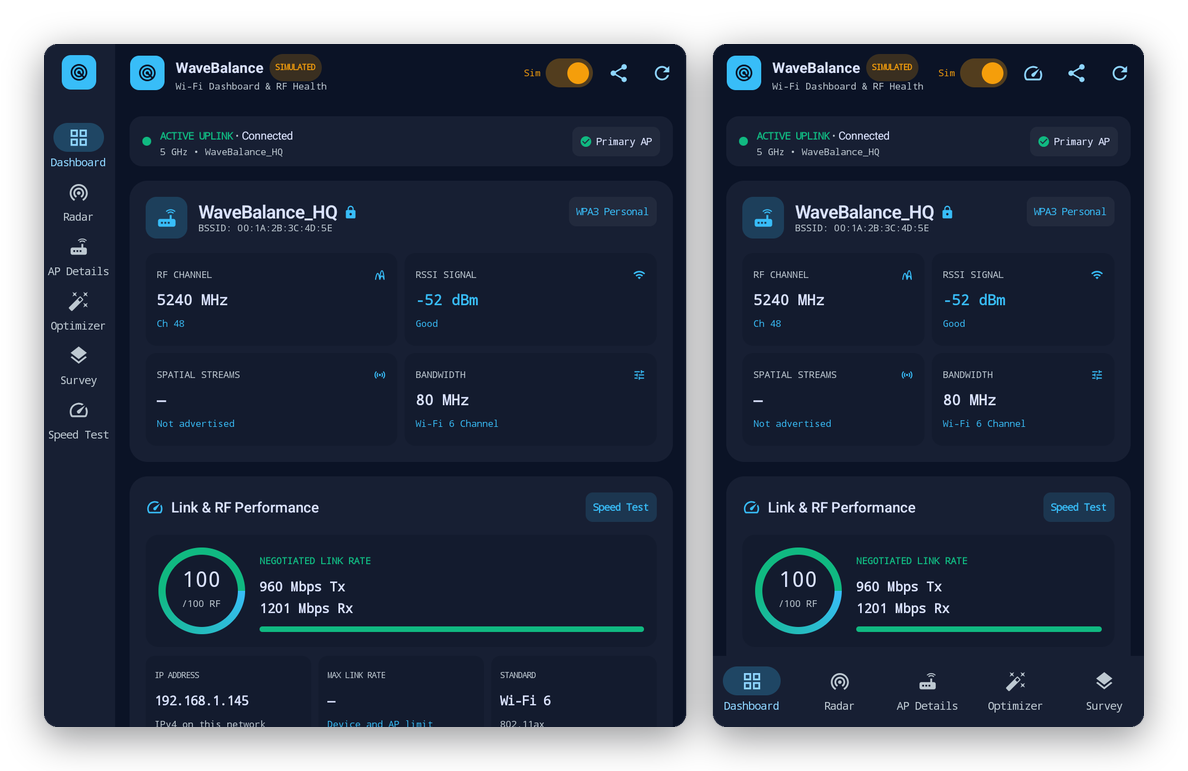
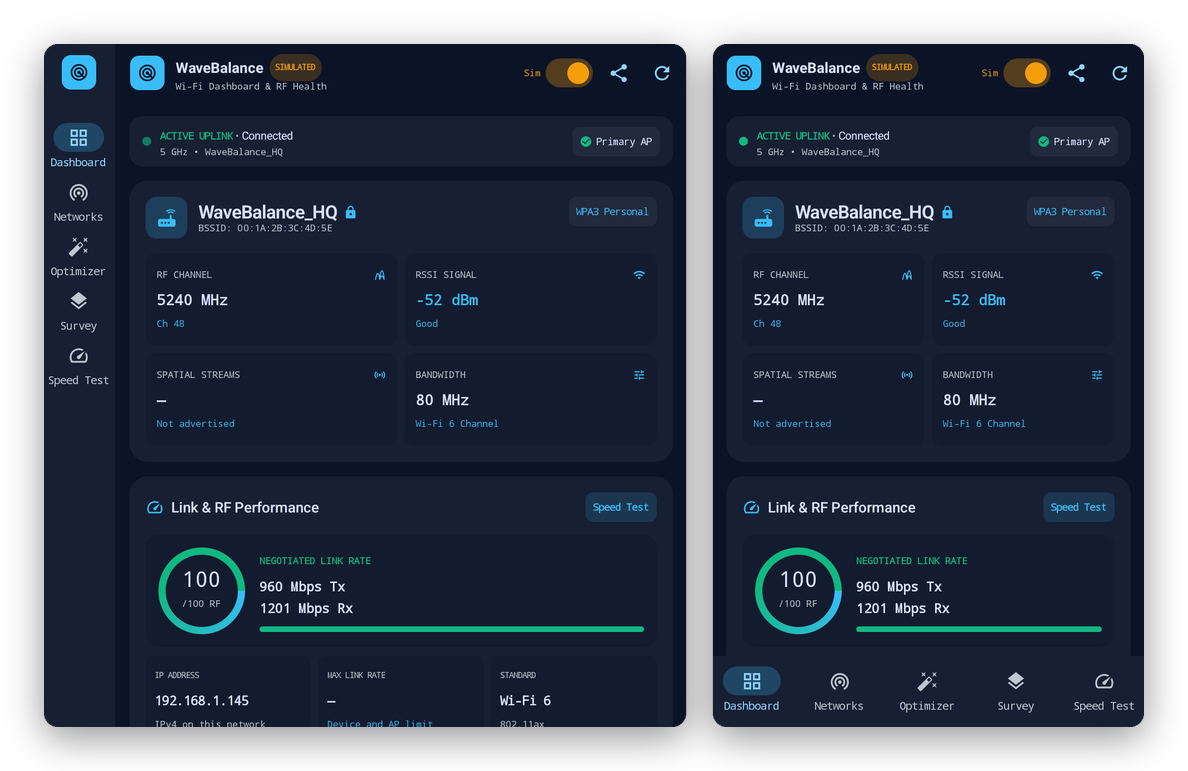
docs: Networks in the README, new screenshots and changelog
The README lists Networks in place of Radar and AP Details, with the new
shortcut numbers, one wide Networks screenshot and the Networks to-do item
removed. Every screenshot is retaken (simulated data) because they all show
the navigation panel. tools/readme_images.py captures networks instead of
radar and details.

diff --git a/tools/readme_images.py b/tools/readme_images.py
@@ -8,7 +8,7 @@ SHOTS_DIR holds full-screen adb captures (`adb exec-out screencap -p`) of a Goog
 (2880x1800 px, 260 dpi) with the WaveBalance window at WINDOW, showing **simulated data**
 (the S key), never a real network:
 
-  dashboard.png radar.png details.png optimizer.png survey.png
+  dashboard.png networks.png optimizer.png survey.png
                           the desktop layout, one capture per screen
   medium.png              the Dashboard with the window resized to MEDIUM (side rail)
   compact.png             the Dashboard with the window resized to COMPACT (bottom bar)
@@ -31,7 +31,7 @@ SHOTS = pathlib.Path(sys.argv[1] if len(sys.argv) > 1 else pathlib.Path.home() /
 WINDOW = (403, 191, 2476, 1487)  # left, top, right, bottom of the desktop-size window
 MEDIUM_RIGHT, COMPACT_RIGHT = 1563, 1183  # right edge when resized (same left and top)
 CAPTION = 65  # px of window caption above the app
-SCREENS = ["dashboard", "radar", "details", "optimizer", "survey"]
+SCREENS = ["dashboard", "networks", "optimizer", "survey"]
 ANDROID = "{http://schemas.android.com/apk/res/android}"
 
 
@@ -102,7 +102,9 @@ def vector_to_svg(*drawables):
 def main():
     OUT.mkdir(parents=True, exist_ok=True)
     save(framed(app_only("dashboard"), 1600), "hero.png")
-    for name in SCREENS[1:]:
+    # Networks spans both columns of the README's table
+    save(framed(app_only("networks"), 1600), "networks.png")
+    for name in SCREENS[2:]:
         save(framed(app_only(name), 1200), f"{name}.png")
 
     # The same Dashboard at two smaller window sizes, side by side, at the same scale.

diff --git a/README.md b/README.md
@@ -44,9 +44,9 @@ read from Android and the access points, or measured; when something isn't known
 
 - **Dashboard:** your connection at a glance: channel, signal, security, spatial streams,
   bandwidth, link rate, and how crowded the airspace is.
-- **Radar:** every network drawn on its channels, band by band, so overlaps are obvious.
-- **AP Details:** each access point's vendor, security, Wi-Fi generation, roaming support
-  (802.11k/v/r) and a live signal graph for the one you're on.
+- **Networks:** every network drawn on its channels, band by band, so overlaps are obvious,
+  in a sortable table beside the selected access point's details: vendor, security, Wi-Fi
+  generation, roaming support (802.11k/v/r) and a live signal graph for the one you're on.
 - **Optimizer:** scores every channel and recommends the clearest one for your router.
 - **Survey:** pin signal readings on a floor plan, room by room, and see the coverage as a
   heatmap with dead zones.
@@ -59,8 +59,8 @@ read from Android and the access points, or measured; when something isn't known
 WaveBalance is designed for a laptop: a resizable window, a keyboard and a mouse.
 
 - **A desktop layout.** A navigation panel down the left shows every screen with its shortcut
-  key, and the Dashboard, the Optimizer and the Speed Test use two columns, so far more fits on
-  screen at once.
+  key. Networks puts the list and the selected network's details side by side, and the
+  Dashboard, the Optimizer and the Speed Test use two columns, so far more fits on screen at once.
 - **Any window size.** Resize the window and the layout follows: a side rail when it's medium,
   a bottom bar at phone width, and the full panel when there's room.
 - **Keyboard first:**
@@ -68,11 +68,10 @@ WaveBalance is designed for a laptop: a resizable window, a keyboard and a mouse
 | Keys | Action |
 | --- | --- |
 | D or 1 | Dashboard |
-| R or 2 | Radar |
-| H or 3 | Survey |
-| A or 4 | AP Details |
-| O or 5 | Optimizer |
-| T | Speed Test |
+| N or 2 | Networks (R and A also work) |
+| O or 3 | Optimizer |
+| H or 4 | Survey |
+| T or 5 | Speed Test (T again goes back) |
 | Space | Scan now |
 | E | Export report |
 | P | Pin the current signal on the survey |
@@ -88,12 +87,11 @@ WaveBalance is designed for a laptop: a resizable window, a keyboard and a mouse
 
 <table>
   <tr>
-    <td width="50%"><img src="docs/images/radar.png" alt="Radar: the 5 GHz band with each network drawn as a curve over its channels, band filters and a searchable list"><br><b>Radar.</b> Each network as a curve over the channels it uses, so you can see who overlaps whom. Filter by band, sort by signal, search by name.</td>
-    <td width="50%"><img src="docs/images/details.png" alt="AP Details: a list of access points with channel, width, Wi-Fi generation and security, and the selected network's vendor, connection badges and live signal graph"><br><b>AP Details.</b> Every access point with its channel, width, Wi-Fi generation and security; the vendor from the IEEE registry; and a live signal graph for your connection.</td>
+    <td colspan="2"><img src="docs/images/networks.png" alt="Networks: band filters and a radar of the 5 GHz band above a sortable table of access points with signal, channel, band and width, and the selected network's vendor, connection badges and live signal graph in a pane on the right"><br><b>Networks.</b> Each network as a curve over the channels it uses, so you can see who overlaps whom, above a table you can sort by any column and search by name, BSSID or vendor. Select one to see its vendor from the IEEE registry, security, Wi-Fi generation, roaming support and a live signal graph.</td>
   </tr>
   <tr>
-    <td width="50%"><img src="docs/images/optimizer.png" alt="Optimizer: band and width selectors, the current channel 48 scoring 82 and the recommended channel 149 scoring 100, and a ranked list of channels"><br><b>Optimizer.</b> Scores each channel for the band and width you pick and recommends the clearest. Your own network's other radios aren't counted as interference.</td>
-    <td width="50%"><img src="docs/images/survey.png" alt="Survey: a floor plan with a living room and an office, six numbered pins with signal readings, and a heatmap from strong green to weak red"><br><b>Survey.</b> Walk around, pin the signal where you stand, and see your coverage as a heatmap, with dead zones and a suggested spot for a mesh node.</td>
+    <td width="50%"><img src="docs/images/optimizer.png" alt="Optimizer: band and width selectors, the current channel 48 scoring 69 and the recommended channel 149 scoring 100, and a ranked list of 80 MHz blocks with their centre channels"><br><b>Optimizer.</b> Scores each channel for the band and width you pick and recommends the clearest. Your own network's other radios aren't counted as interference.</td>
+    <td width="50%"><img src="docs/images/survey.png" alt="Survey: a floor plan with a living room, an office, a kitchen and a bedroom, four numbered pins with signal readings, a heatmap from strong green to weak orange and a recommended spot for a mesh node"><br><b>Survey.</b> Walk around, pin the signal where you stand, and see your coverage as a heatmap, with dead zones and a suggested spot for a mesh node.</td>
   </tr>
 </table>
 
@@ -163,8 +161,6 @@ right after each other may show the same results.
 
 ## To do
 
-- [ ] **Networks:** combine Radar and AP Details into one list with a detail pane, and a table
-  view with sortable columns.
 - [ ] **More desktop:** right-click menus, tooltips and an in-app list of shortcuts.
 - [ ] **Survey:** keep pins between sessions, and a wider layout for the floor plan.
 - [ ] **Narrow windows:** the SIMULATED label gets squeezed in very narrow windows.

diff --git a/RELEASING.md b/RELEASING.md
@@ -41,7 +41,7 @@ gh release create vX.Y.Z build/release/WaveBalance.apk build/release/SHA256SUMS 
    is a pre-release. Play Protect's "unknown developer" warning is expected until the developer
    account is verified (see Android developer verification); anything else is new.
 3. Check the version: Settings > Apps > WaveBalance shows `X.Y.Z` at the bottom of App info.
-4. Open WaveBalance, allow location and nearby devices: the Dashboard and Radar fill in.
+4. Open WaveBalance, allow location and nearby devices: the Dashboard and Networks fill in.
 5. Run a full speed test: the M-Lab consent appears, and download, upload and bufferbloat show.
 
 ## 5. Make it the latest release

diff --git a/CHANGELOG.md b/CHANGELOG.md
@@ -1,5 +1,12 @@
 # Changelog
 
+## Unreleased
+
+- **Networks replaces Radar and AP Details.** On a wide window the radar, the band filters and
+  a sortable table of every network sit beside the selected network's details. Search also
+  matches the vendor. Shortcuts: N or 2 for Networks (R and A still work), and the numbers
+  follow the navigation panel: 3 Optimizer, 4 Survey, 5 Speed Test.
+
 ## 1.2.0 (2026-10-05)
 
 Fixes from [Jesse Johnston](https://github.com/jessejamesjohnston) (#1-#5).
